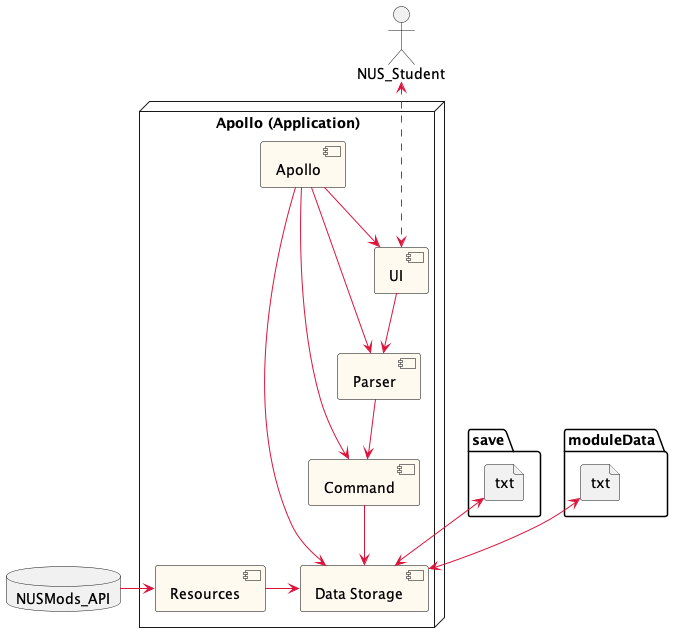
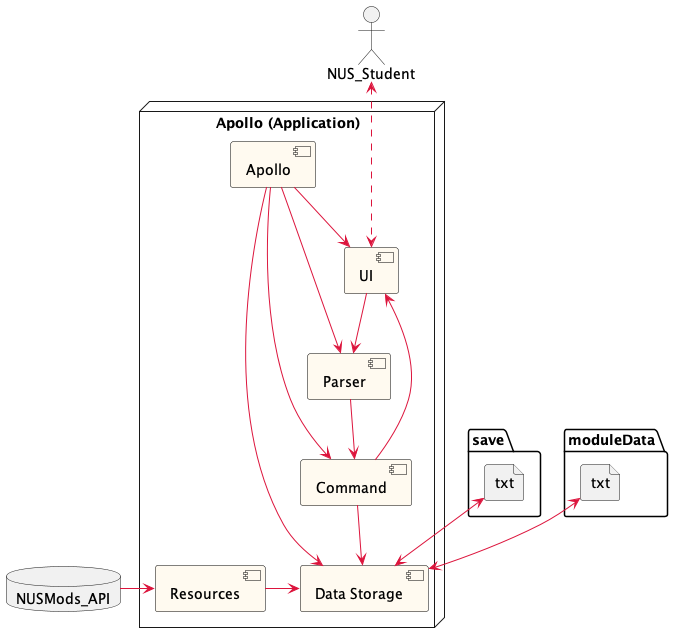
Update UML and DG for system architecture

diff --git a/docs/DeveloperGuide.md b/docs/DeveloperGuide.md
@@ -49,6 +49,13 @@ We would like to acknowledge Hong Lin Shang, whose Duke we built upon for our pr
 ## Design & implementation
 
 ### Architecture
+Below is the overall architecture diagram for Apollo.
+
+The program will first load the plaintext files (save and moduleData) and files in the Resources folder to populate its internal memory of 
+ModuleList and TaskList. This will be stored in its DataStorage. The user's (NUS_Student) interaction with the UI will be 
+parsed into a command which would update the DataStorage and eventually update the UI which is displayed back 
+to the user. This would continue until the user exits the program, which would result in the data stored in DataStorage 
+being saved into the the plaintext files.
 
 ### UI Component
 
